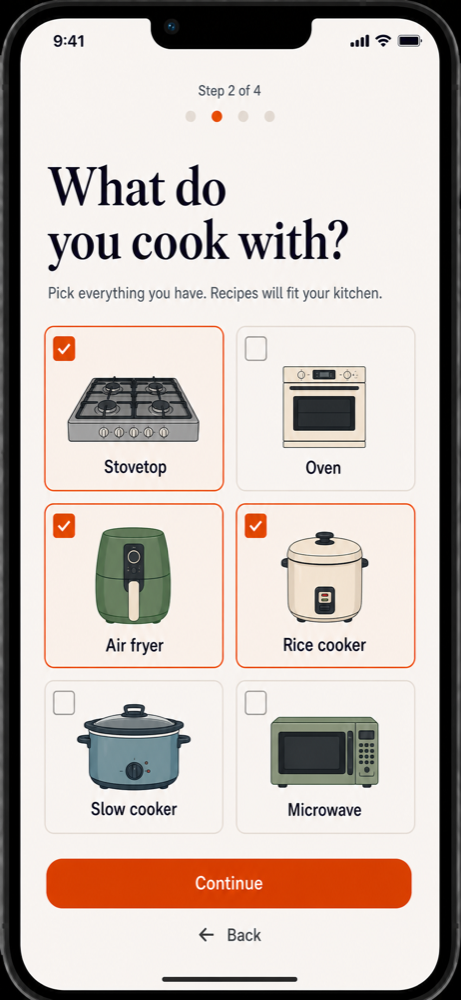
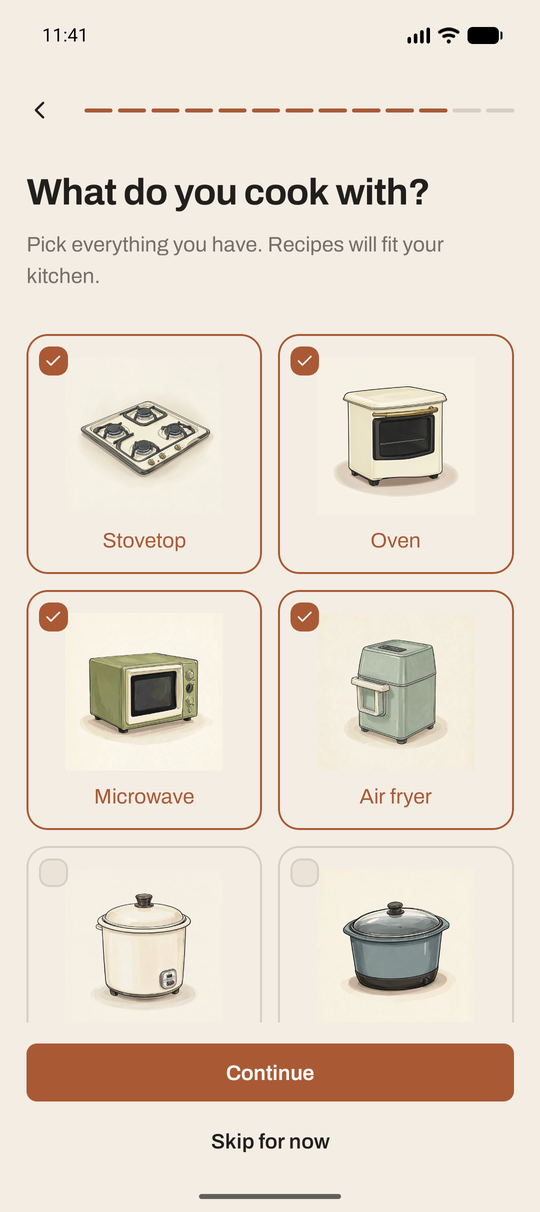
fix(onboarding): rebuild wheel pickers on ScrollView; real screenshots in README
SnappedScroller nested a FlatList inside the step ScrollView and echoed
its own scrolls back, so age/height/weight pickers fought the gesture.
Use a plain ScrollView, centre the horizontal ticks from measured width,
let flings travel, and start the birth year near 30.

Replace concept-art README screenshots with captures from the running app.

diff --git a/src/components/onboarding/SnappedScroller.tsx b/src/components/onboarding/SnappedScroller.tsx
@@ -1,7 +1,7 @@
-import { useCallback, useEffect, useRef } from 'react';
+import { useCallback, useEffect, useRef, useState } from 'react';
 import {
-  FlatList,
   Pressable,
+  ScrollView,
   StyleSheet,
   View,
   type AccessibilityActionEvent,
@@ -60,39 +60,49 @@ export function SnappedScroller({
   visibleTicks = 2,
   style,
 }: Props) {
-  const listRef = useRef<FlatList<ScrollerItem>>(null);
-  const readyRef = useRef(false);
-  const ignoreNextMomentumRef = useRef(false);
+  const scrollRef = useRef<ScrollView>(null);
+  /** Where the list actually is, so a settled gesture is never "corrected" back. */
+  const offsetRef = useRef(0);
   const reduceMotion = useReducedMotion();
   const horizontal = orientation === 'horizontal';
   const tick = horizontal ? TICK_HORIZONTAL : TICK_VERTICAL;
   const extent = tick * (visibleTicks * 2 + 1);
   const selected = items[selectedIndex];
-
-  const contentPadding = tick * visibleTicks;
+  // Vertical frames are exactly `extent` tall; horizontal ones span their
+  // container, so centre the first/last tick under the caret from the width.
+  const [width, setWidth] = useState(0);
+  const contentPadding = horizontal && width > 0 ? Math.max(0, (width - tick) / 2) : tick * visibleTicks;
 
   /**
-   * The first row starts after `contentPadding`, but the caret is also that
-   * far from the viewport edge. Consequently item n is centred at scroll
-   * offset n*tick (the padding cancels on both sides). Keeping this conversion
-   * in one place prevents the padding from being counted twice.
+   * With the padding on both sides, item n is centred under the caret at
+   * scroll offset n*tick.
+   *
+   * A plain ScrollView, not a FlatList: this sits inside the step's own
+   * ScrollView, and a virtualized list nested in one fights it for the
+   * gesture (and React Native warns about exactly that).
    */
-  const centeredOffset = useCallback(
-    (index: number) => Math.max(0, index * tick),
-    [tick],
+  const scrollTo = useCallback(
+    (index: number, animated: boolean) => {
+      const offset = index * tick;
+      offsetRef.current = offset;
+      scrollRef.current?.scrollTo(horizontal ? { x: offset, animated } : { y: offset, animated });
+    },
+    [horizontal, tick],
   );
 
   /** Keeps the list under the caret when the value changes from elsewhere. */
   useEffect(() => {
-    if (!readyRef.current || selectedIndex < 0 || selectedIndex >= items.length) return;
-    // An animated programmatic jump emits momentum; an immediate jump does
-    // not, so there is no event to suppress in reduced-motion mode.
-    ignoreNextMomentumRef.current = !reduceMotion;
-    listRef.current?.scrollToOffset({
-      offset: centeredOffset(selectedIndex),
-      animated: !reduceMotion,
-    });
-  }, [centeredOffset, items.length, reduceMotion, selectedIndex]);
+    if (selectedIndex < 0 || selectedIndex >= items.length) return;
+    // A gesture that just settled on this index is already there: leave it.
+    if (Math.abs(offsetRef.current - selectedIndex * tick) < 1) return;
+    scrollTo(selectedIndex, !reduceMotion);
+  }, [items.length, reduceMotion, scrollTo, selectedIndex, tick]);
+
+  // Padding changes with the measured width; re-seat the list without animating.
+  useEffect(() => {
+    scrollTo(selectedIndex, false);
+    // eslint-disable-next-line react-hooks/exhaustive-deps
+  }, [contentPadding]);
 
   const step = useCallback(
     (delta: number) => {
@@ -110,31 +120,21 @@ export function SnappedScroller({
     [step],
   );
 
-  const onSettled = useCallback(
+  const settle = useCallback(
     (event: NativeSyntheticEvent<NativeScrollEvent>) => {
-      if (!readyRef.current) return;
-      if (ignoreNextMomentumRef.current) {
-        ignoreNextMomentumRef.current = false;
-        return;
-      }
-      const offset = horizontal
-        ? event.nativeEvent.contentOffset.x
-        : event.nativeEvent.contentOffset.y;
-      // contentOffset is measured from the padded content origin. Expressing
-      // the calculation via the caret centre makes that contract explicit and
-      // avoids treating the leading padding as an extra item.
-      const viewportCenter = contentPadding + extent / 2;
-      const contentCenter = offset + viewportCenter;
-      const index = Math.round((contentCenter - contentPadding - tick / 2) / tick);
-      const boundedIndex = Math.min(items.length - 1, Math.max(0, index));
-      if (boundedIndex !== selectedIndex) onSelectIndex(boundedIndex);
+      const { contentOffset } = event.nativeEvent;
+      const offset = horizontal ? contentOffset.x : contentOffset.y;
+      offsetRef.current = offset;
+      const index = Math.min(items.length - 1, Math.max(0, Math.round(offset / tick)));
+      if (index !== selectedIndex) onSelectIndex(index);
     },
-    [contentPadding, extent, horizontal, items.length, onSelectIndex, selectedIndex, tick],
+    [horizontal, items.length, onSelectIndex, selectedIndex, tick],
   );
 
   return (
     <View
       style={[styles.frame, horizontal ? { height: TICK_HORIZONTAL } : { height: extent }, style]}
+      onLayout={(event) => setWidth(event.nativeEvent.layout.width)}
       accessible
       accessibilityRole="adjustable"
       accessibilityLabel={label}
@@ -143,31 +143,25 @@ export function SnappedScroller({
       onAccessibilityAction={onAction}
     >
       <View pointerEvents="none" style={[styles.caret, horizontal ? styles.caretHorizontal : styles.caretVertical]} />
-      <FlatList
-        ref={listRef}
-        data={items}
+      <ScrollView
+        ref={scrollRef}
         horizontal={horizontal}
-        keyExtractor={(item) => item.key}
+        nestedScrollEnabled
         showsHorizontalScrollIndicator={false}
         showsVerticalScrollIndicator={false}
         snapToInterval={tick}
         decelerationRate="fast"
-        disableIntervalMomentum
-        getItemLayout={(_, index) => ({ length: tick, offset: contentPadding + tick * index, index })}
-        onMomentumScrollEnd={onSettled}
-        onScrollBeginDrag={() => {
-          // A real gesture owns the next settle event, even if an earlier
-          // animated state sync has not finished dispatching its callback.
-          ignoreNextMomentumRef.current = false;
+        scrollEventThrottle={16}
+        onScroll={(event) => {
+          const { contentOffset } = event.nativeEvent;
+          offsetRef.current = horizontal ? contentOffset.x : contentOffset.y;
         }}
-        onScrollToIndexFailed={() => undefined}
-        onLayout={() => {
-          if (readyRef.current) return;
-          readyRef.current = true;
-          listRef.current?.scrollToOffset({
-            offset: centeredOffset(selectedIndex),
-            animated: false,
-          });
+        onMomentumScrollEnd={settle}
+        onScrollEndDrag={(event) => {
+          // A slow release can land on a tick with no momentum phase at all.
+          const { velocity } = event.nativeEvent;
+          const speed = velocity ? Math.abs(horizontal ? velocity.x : velocity.y) : 0;
+          if (speed < 0.05) settle(event);
         }}
         importantForAccessibility="no-hide-descendants"
         contentContainerStyle={
@@ -175,8 +169,10 @@ export function SnappedScroller({
             ? { paddingHorizontal: contentPadding }
             : { paddingVertical: contentPadding }
         }
-        renderItem={({ item, index }) => (
+      >
+        {items.map((item, index) => (
           <Pressable
+            key={item.key}
             onPress={() => onSelectIndex(index)}
             style={({ pressed }) => [
               horizontal ? { width: tick, height: TICK_HORIZONTAL } : { width: '100%', height: tick },
@@ -190,8 +186,8 @@ export function SnappedScroller({
               <Caption muted>{item.label}</Caption>
             )}
           </Pressable>
-        )}
-      />
+        ))}
+      </ScrollView>
     </View>
   );
 }
@@ -211,5 +207,6 @@ const styles = StyleSheet.create({
   tick: { alignItems: 'center', justifyContent: 'center' },
   caret: { position: 'absolute', backgroundColor: color.action, opacity: opacity.over },
   caretHorizontal: { top: 0, bottom: 0, left: '50%', width: 2 },
-  caretVertical: { left: 0, right: 0, top: '50%', height: 2 },
+  // A band behind the selected row rather than a line through its text.
+  caretVertical: { left: 0, right: 0, top: '50%', height: TICK_VERTICAL, marginTop: -TICK_VERTICAL / 2, opacity: 0.12 },
 });

diff --git a/src/components/onboarding/BirthdayPicker.tsx b/src/components/onboarding/BirthdayPicker.tsx
@@ -60,7 +60,7 @@ export function BirthdayPicker({
   today = todayCalendarDate(),
 }: Props) {
   const bounds = useMemo(() => supportedBirthdayRange(today), [today]);
-  const [year, setYear] = useState(bounds.latest.year);
+  const [year, setYear] = useState(Math.max(bounds.earliest.year, bounds.latest.year - 30)); // anchor near 30, not the youngest allowed
   const [month, setMonth] = useState(1);
   const [day, setDay] = useState(1);
   const [touched, setTouched] = useState(false);

diff --git a/test/onboarding-controls.test.ts b/test/onboarding-controls.test.ts
@@ -244,7 +244,7 @@ describe('control accessibility floor', () => {
 
   test('ticks meet the touch target and reduced motion snaps immediately', () => {
     expect(scroller).toContain('const TICK_VERTICAL = layout.minTouchTarget;');
-    expect(scroller).toContain('animated: !reduceMotion');
+    expect(scroller).toContain('scrollTo(selectedIndex, !reduceMotion)');
     expect(scroller).toContain('useReducedMotion()');
   });
 

diff --git a/README.md b/README.md
@@ -11,20 +11,20 @@ The name is from *mise en place*: everything in its place.
 > OpenSpec tracks the remaining work and device checks in `openspec/changes/`.
 
 <p align="center">
-  <img src="docs/screenshots/today.png" width="180" alt="Today: plan your week" />
-  <img src="docs/screenshots/week.png" width="180" alt="Week view with planned meals" />
-  <img src="docs/screenshots/choose-meals.png" width="180" alt="Choose meals by cuisine" />
-  <img src="docs/screenshots/cooking-guide.png" width="180" alt="Recipe with illustrated cooking guide" />
+  <img src="docs/screenshots/today.png" width="180" alt="Today: your meal plan" />
+  <img src="docs/screenshots/calories.png" width="180" alt="Calories and macros remaining" />
+  <img src="docs/screenshots/dinner-plan.png" width="180" alt="Dinner plan with batch ingredients" />
+  <img src="docs/screenshots/shop.png" width="180" alt="Groceries for your plan" />
 </p>
-<p align="center"><sub>Android, light theme. Today · Week · Choose meals · Cooking guide.</sub></p>
+<p align="center"><sub>Android, light theme. Today · Calories · Dinner plan · Shop.</sub></p>
 
 <p align="center">
-  <img src="docs/screenshots/onboarding-goals.png" width="180" alt="Onboarding: choose your goals" />
+  <img src="docs/screenshots/onboarding-start.png" width="180" alt="Onboarding: where to start" />
+  <img src="docs/screenshots/onboarding-age.png" width="180" alt="Onboarding: birth date" />
   <img src="docs/screenshots/onboarding-kitchen.png" width="180" alt="Onboarding: pick your cookware" />
-  <img src="docs/screenshots/onboarding-pantry.png" width="180" alt="Onboarding: scan your first ingredients" />
-  <img src="docs/screenshots/onboarding-plan.png" width="180" alt="Onboarding: your first prep plan" />
+  <img src="docs/screenshots/onboarding-results.png" width="180" alt="Onboarding: your daily target" />
 </p>
-<p align="center"><sub>Onboarding design concept: goals · kitchen · pantry · first prep plan.</sub></p>
+<p align="center"><sub>Onboarding: start · age · kitchen · daily target.</sub></p>
 
 ---
 
